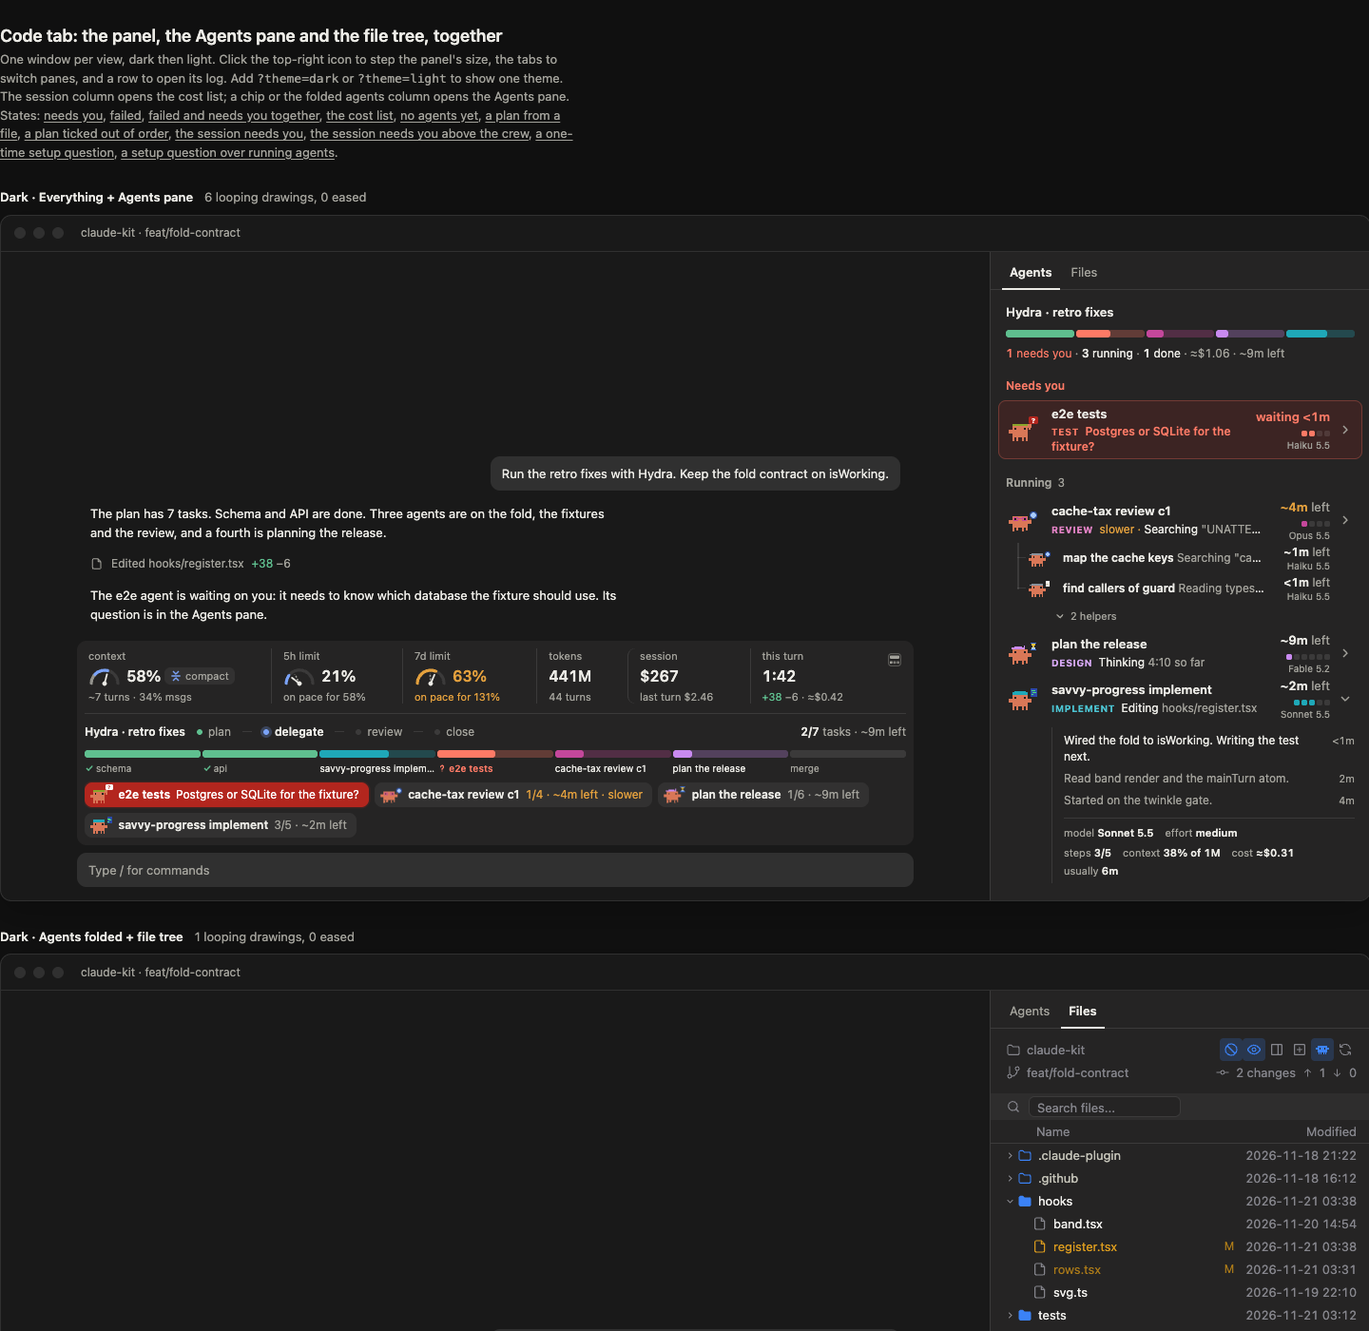
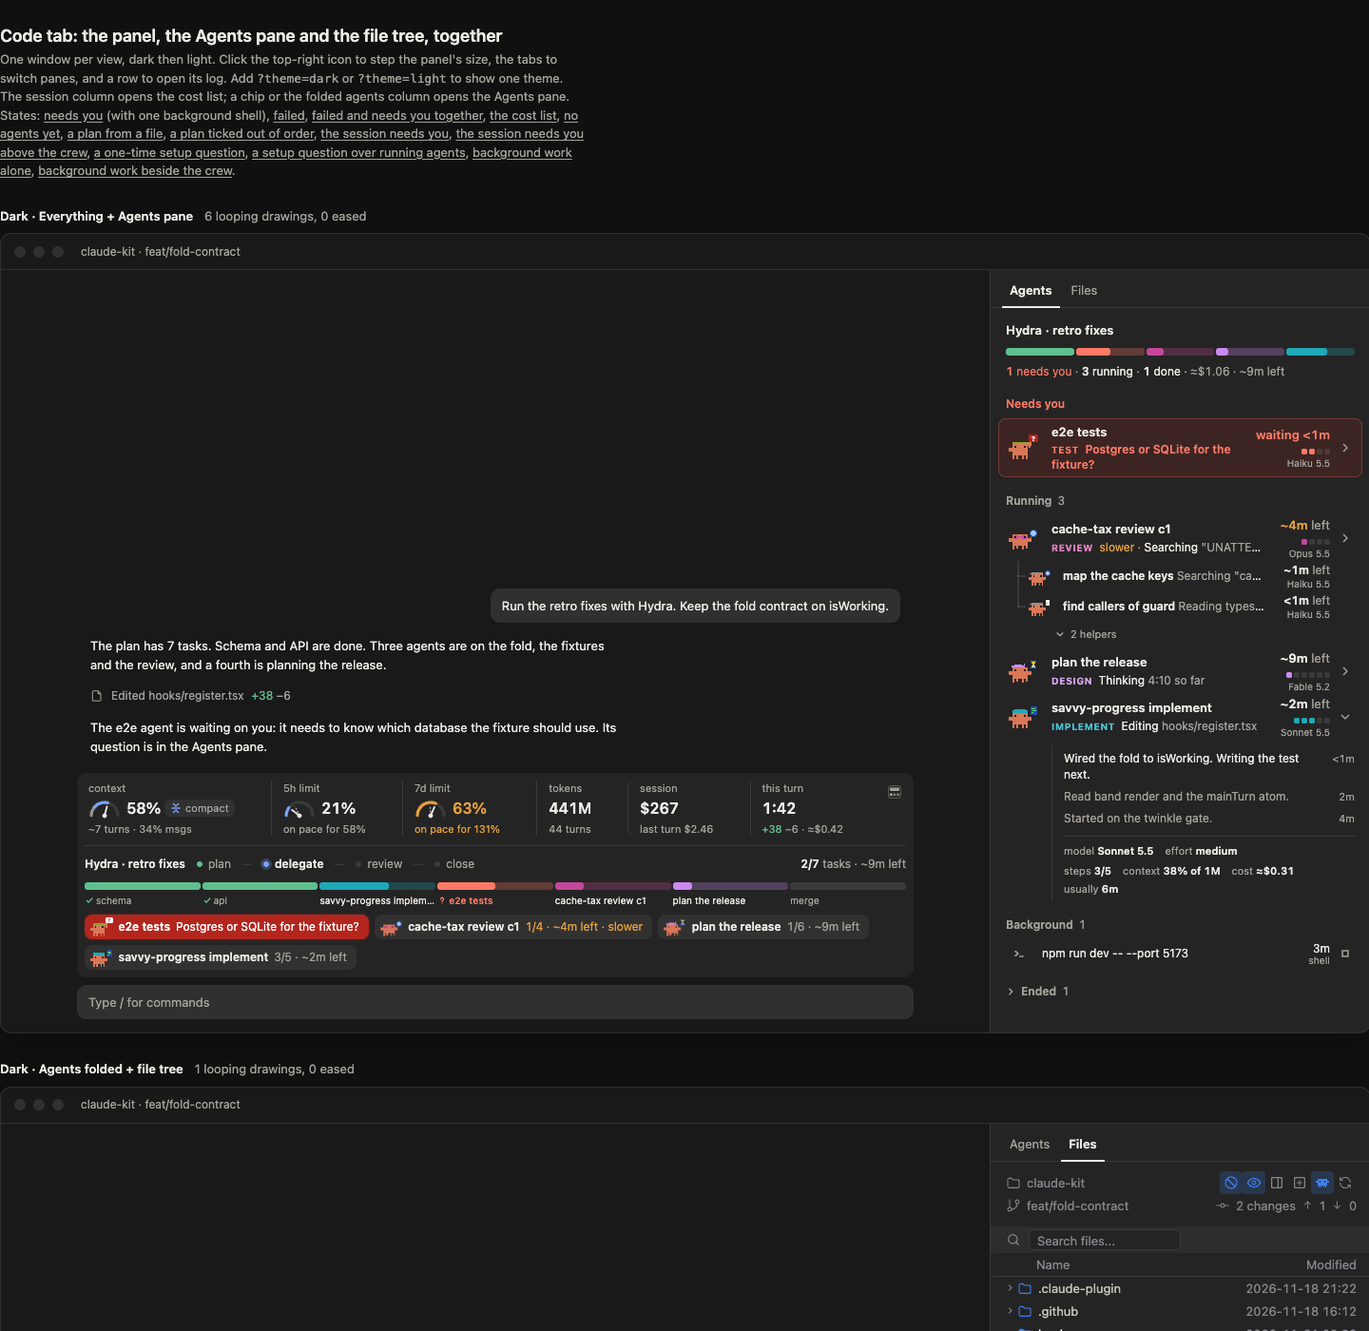
design: the mockup shows the Background section, with one running shell in the default state; previews refreshed

diff --git a/design/mockups-all.html b/design/mockups-all.html
@@ -163,6 +163,12 @@ body{margin:0;background:var(--page);color:var(--ink);font:14px/1.5 -apple-syste
 .kidtog[aria-expanded="true"] svg{transform:rotate(90deg)}
 .end{display:grid;grid-template-columns:28px minmax(0,1fr) auto;align-items:center;column-gap:10px;height:30px;font-size:12px;color:var(--mu)}
 .end .ok{color:var(--okt);display:inline-flex;align-items:center;gap:4px}
+/* BUILD Background section: the Ended rows' 30px height, the kind icon in the crab slot, the reading on the running rows' edge over the kind word; the Stop sits in the chevron slot */
+.bgr{display:grid;grid-template-columns:28px minmax(0,1fr) auto 16px;align-items:center;column-gap:10px;height:30px;font-size:12px}
+.bgr .ki{display:inline-flex;justify-content:center;color:var(--mu)}
+.bgr .rd{line-height:13px}
+.bgr.fail .ki,.bgr.fail .rd>.tn{color:var(--er)}.bgr.fail .rd>.tn{font-weight:600}.bgr.fail .el{color:var(--mu)}
+.stp{all:unset;display:inline-flex;color:var(--mu);cursor:pointer;border-radius:4px}.stp:hover{color:var(--fg)}
 
 /* ---------- ALIGN F3..F12: the failed state (ALIGNMENT.md, "Failed state"). Only existing tokens. ---------- */
 /* ALIGN F3: an ended segment is solid (done green, failed er); a live one keeps the 28% tint + fill */
@@ -223,7 +229,7 @@ body{margin:0;background:var(--page);color:var(--ink);font:14px/1.5 -apple-syste
 <body>
 <div class="doc">
 <h1>Code tab: the panel, the Agents pane and the file tree, together</h1>
-<p>One window per view, dark then light. Click the top-right icon to step the panel's size, the tabs to switch panes, and a row to open its log. Add <code>?theme=dark</code> or <code>?theme=light</code> to show one theme. The session column opens the cost list; a chip or the folded agents column opens the Agents pane. States: <a href="?">needs you</a>, <a href="?state=failed">failed</a>, <a href="?state=both">failed and needs you together</a>, <a href="?state=costs">the cost list</a>, <a href="?state=empty">no agents yet</a>, <a href="?state=fileplan">a plan from a file</a>, <a href="?state=outoforder">a plan ticked out of order</a>, <a href="?state=session">the session needs you</a>, <a href="?state=sessionCrew">the session needs you above the crew</a>, <a href="?state=offer">a one-time setup question</a>, <a href="?state=offerCrew">a setup question over running agents</a>.</p>
+<p>One window per view, dark then light. Click the top-right icon to step the panel's size, the tabs to switch panes, and a row to open its log. Add <code>?theme=dark</code> or <code>?theme=light</code> to show one theme. The session column opens the cost list; a chip or the folded agents column opens the Agents pane. States: <a href="?">needs you</a> (with one background shell), <a href="?state=failed">failed</a>, <a href="?state=both">failed and needs you together</a>, <a href="?state=costs">the cost list</a>, <a href="?state=empty">no agents yet</a>, <a href="?state=fileplan">a plan from a file</a>, <a href="?state=outoforder">a plan ticked out of order</a>, <a href="?state=session">the session needs you</a>, <a href="?state=sessionCrew">the session needs you above the crew</a>, <a href="?state=offer">a one-time setup question</a>, <a href="?state=offerCrew">a setup question over running agents</a>, <a href="?state=background">background work alone</a>, <a href="?state=backgroundCrew">background work beside the crew</a>.</p>
 </div>
 <div id="root"></div>
 <script>
@@ -242,7 +248,8 @@ const TH={
 const CL='#D97757',INK='#1F1E1D';
 /* ALIGN I1: one icon set, 12-unit grid, 1.6 stroke, drawn at 12px or 10px (was 1.6 / 1.7 / 2.0 at 12 / 11 / 10 / 8px) */
 const ic=(d,s,cls)=>`<svg ${cls?`class="${cls}"`:`width="${s}" height="${s}"`} viewBox="0 0 12 12" aria-hidden="true"><path d="${d}" fill="none" stroke="currentColor" stroke-width="1.6" stroke-linecap="round" stroke-linejoin="round"/></svg>`;
-const ICON={chev:ic('M4.5 2.5 8 6l-3.5 3.5',12,'chev'),small:ic('M4.5 2.5 8 6l-3.5 3.5',10),check:ic('M2.5 6.3 5 8.8l4.5-5.3',10),cross:ic('M3 3l6 6M9 3 3 9',10),ask:ic('M4.2 4.4a1.8 1.8 0 1 1 2.6 1.6c-.5.3-.8.7-.8 1.2v.5M6 9.6v.01',10),squeeze:ic('M3.5 1.5 6 4l2.5-2.5M3.5 10.5 6 8l2.5 2.5M2 6h8',12)}; /* ALIGN F3: cross, same grid and stroke as the check. BUILD Compact chip: squeeze */
+const ICON={chev:ic('M4.5 2.5 8 6l-3.5 3.5',12,'chev'),small:ic('M4.5 2.5 8 6l-3.5 3.5',10),check:ic('M2.5 6.3 5 8.8l4.5-5.3',10),cross:ic('M3 3l6 6M9 3 3 9',10),ask:ic('M4.2 4.4a1.8 1.8 0 1 1 2.6 1.6c-.5.3-.8.7-.8 1.2v.5M6 9.6v.01',10),squeeze:ic('M3.5 1.5 6 4l2.5-2.5M3.5 10.5 6 8l2.5 2.5M2 6h8',12),
+ shell:ic('M2 3.5 4.8 6 2 8.5M6.5 9h3.5',12),monitor:ic('M1 6h2.4l1.4-3 2.4 6 1.4-3H11',12),cron:ic('M6 1.5a4.5 4.5 0 1 0 0 9 4.5 4.5 0 1 0 0-9M6 3.8V6l1.6 1.1',12),wakeup:ic('M10 6a4 4 0 1 1-1.2-2.85M9.2 1.4v1.9H7.3',12),stop:ic('M3 3h6v6H3z',12),cross12:ic('M3 3l6 6M9 3 3 9',12)}; /* ALIGN F3: cross, same grid and stroke as the check. BUILD Compact chip: squeeze */
 
 /* ALIGN C2: ONE crab for chips, pane rows and the folded column. The pane's drawing (full props, done flag)
    plus the panel's failed eyes. Sizes are S .75 / M 1 / L 1.5 only (were .7 .75 .8 .9 1.1 1.6). */
@@ -286,6 +293,8 @@ if(FAILED){
 const EMPTY=STATE==='empty';if(EMPTY){A.length=0;ENDED.length=0}
 /* BUILD Session need (?state=session alone, ?state=sessionCrew above the crew): the main session waits on you. A "Claude" row in Needs you, not an agent: no crew-bar segment, no press, no chevron (its slot kept). */ const SESSION=STATE==='session'||STATE==='sessionCrew',SQ='Ship the schema change behind a flag, or migrate every row now?';if(STATE==='session'){A.length=0;ENDED.length=0}
 /* BUILD One-time setup (?state=offer alone, ?state=offerCrew over two running agents): an unasked /config choice row from clawpit or savvy-progress, one at a time, directly under the head; hidden while anything needs you or has failed; Yes and No are equal wash chips, no later. */ const OFFER=STATE==='offer'||STATE==='offerCrew',OQ='Light Needs you when this session asks you a question?';if(STATE==='offer'){A.length=0;ENDED.length=0}if(STATE==='offerCrew'){A.splice(0,A.length,...A.filter(a=>a.id==='imp'||a.id==='pln'));ENDED.length=0}
+/* BUILD Background section (decided 2026-11-23; ?state=background alone, ?state=backgroundCrew beside the crew; the default state shows one running shell): savvy's shells, monitors, crons and wakeups, after Running and before Ended. Done and stopped rows hide; a failed one shows until the next prompt, with a cross and "failed", and no Stop. A schedule wider than the reading column reads the kind word. Nothing moves. Alone, it reaches the pane through one muted chip at full size, and the folded agents column. */
+const BGS=STATE==='background'||STATE==='backgroundCrew',BG=BGS?[{k:'wakeup',t:'resume the release check',r:'in 5m',say:'next in 5m'},{k:'shell',t:'npm run dev -- --port 5173',r:'3m',say:'running 3m'},{k:'monitor',t:'watch the deploy logs',r:'12m',say:'running 12m'},{k:'cron',t:'check the CI queue',r:'cron',brief:1,say:'every 10 minutes'},{k:'shell',t:'npm run build:docs',r:'failed',fail:1,say:'failed after 2m'}]:STATE===''?[{k:'shell',t:'npm run dev -- --port 5173',r:'3m',say:'running 3m'}]:[];if(STATE==='background'){A.length=0;ENDED.length=0}
 const hard=a=>a.tries>=3&&a.prop!=='fail'; /* struggling: live, may recover */
 /* ALIGN M2: walkers are capped window-wide and are the same agents in chips and rows:
    2 while someone needs you (the needs-you beat takes the third slot), else 3. Helpers walk only if a slot is left.
@@ -294,7 +303,7 @@ const hard=a=>a.tries>=3&&a.prop!=='fail'; /* struggling: live, may recover */
 /* BUILD: the plan's task titles are the run descriptions they match, as savvy-progress's contract asks. DONE: BUILD Plan count, the session's accepted count */
 let TASKS=['schema','api','savvy-progress implement','e2e tests','cache-tax review c1','plan the release','merge'],PH=['plan','delegate','review','close'],DONE=2;
 /* BUILD Plan ticks by title (2026-11-22) */ const PLAN=STATE==='fileplan'?{title:'Site rebuild',tasks:['schema','api','docs page','auth flow','login page','settings page','search index','export csv','import csv','error pages','release notes','changelog'],done:5,titles:['schema','api','docs page','login page','settings page']}:STATE==='outoforder'?{title:'Site rebuild',tasks:['schema','api','docs page','release notes'],done:1,titles:['api']}:null; if(PLAN){TASKS=PLAN.tasks;DONE=PLAN.done;ENDED.length=0;if(STATE==='fileplan')A.length=0;else A.splice(0,A.length,{...AG('imp'),t:'schema',task:1,kids:[]})}
-const ST={busy:1,hydra:!EMPTY,ctx:58,msgs:34,h5:21,p5:36,d7:63,p7:48,turns:44,tests:1}; /* the panel's "Hydra, needs you" state; p5/p7: the on-pace points */
+const ST={busy:1,hydra:!EMPTY&&STATE!=='background',ctx:58,msgs:34,h5:21,p5:36,d7:63,p7:48,turns:44,tests:1}; /* the panel's "Hydra, needs you" state; p5/p7: the on-pace points */
 /* BUILD Session cost board: the last 20 of 44 turns, newest last (the costs fixture) */
 const TURNS=[...Array.from({length:17},(_,i)=>+(0.2+i*0.03).toFixed(2)),0.85,1.1,2.46];
 const NEXT={full:'gauges',gauges:'line',line:'full'},LBL={full:'Panel: everything. Fold the agents',gauges:'Panel: agents folded. Show one line',line:'Panel: one line. Show everything'};
@@ -335,6 +344,7 @@ function columns(c,s,L,mode){const C=[],alarm=s.ctx>=90,ctc=tier(c,s.ctx);
  if(mode!=='full'&&s.hydra)C.push({k:'plan',pr:97,lab:`plan · ${PH[1]}`,d:mini(c,L,58),val:`<b>${DONE}/${TASKS.length}</b>`,so:`${PLAN?PLAN.title:'Hydra · retro fixes'}${A.length?` · ${LEFT}`:''}`});
  /* ALIGN W3: "N running" counted the waiting agent as running; the pane does not. The folded column now reads "N agents". Crab .9 -> M.
     BUILD One folded agent: its name in the value slot and only its state under it. BUILD Alert line keeps its words: the name is cut, never " needs you". */
+ if(mode!=='full'&&!L.length&&!SESSION&&BG.length){const n=BG.filter(b=>!b.fail).length,f=BG.length-n;C.push({k:'agents',pr:99,act:'open',aria:'Agents: show them all',lab:'agents',d:`<span style="display:inline-block;margin-right:6px">${crab('explore','none',0,c,M)}</span>`,val:`<b>${n}</b>`,so:`background${f?`<span style="color:${c.er}"> · ${f} failed</span>`:''}`})}
  if(mode!=='full'&&(L.length||SESSION)){const F=face(L),one=!L.length||L.length===1&&F.a===L[0],st=F.alert?(F.a.prop==='wait'?'needs you':'failed'):F.warn?`${F.a.tries} failed tries`:`${etaTxt(F.a)} left`;
   const say=F.alert&&!one?`<span class="el" style="min-width:0">${F.a.t}</span><span style="flex:none;white-space:pre">${F.txt.slice(F.a.t.length)}</span>`:one?st:F.txt;
   C.push({k:'agents',pr:99,act:'open',aria:'Agents: show them all',lab:'agents',d:mascot(F,c,M,L.length,1,1),val:one?`<b class="el" style="font-size:14px">${F.a.t}</b>`:`<b>${L.length}</b><small>agents</small>`,so:`<span style="display:flex;${faceStyle(F,c)}">${say}</span>`})}
@@ -347,7 +357,8 @@ function panel(c,mode,W){const s=ST,L=A;
  const grid=`<div class="grid" style="grid-template-columns:repeat(${keep.length},auto)">${keep.map(x=>`<div class="cell${x.act?' press':''}"${x.act?` role="button" tabindex="0" aria-label="${x.aria}" data-act="${x.act}"`:''}><div class="lab">${x.lab}</div><div class="val">${x.d||''}${x.val}</div><div class="so el">${x.so}</div></div>`).join('')}</div>`;
  const bad=L.filter(a=>a.task&&a.prop==='fail').length,live=L.filter(a=>a.task).length-bad;
  const plan=s.hydra?`<div class="hr"></div><div class="plan${W<620?' narrow':''}"><b class="el" style="min-width:0">${W<520?'Hydra':PLAN?PLAN.title:'Hydra · retro fixes'}</b>${PH.map((p,i)=>`${i?'<span class="sep"></span>':''}<span class="ph ${i<1?'done':i===1?'now':'next'}" title="${p}"><i></i><span>${p}</span></span>`).join('')}<span class="grow"></span><span class="tn"><b>${DONE}/${TASKS.length}</b><span class="m"> tasks${A.length?` · ${LEFT}`:''}</span>${!L.some(a=>a.task)&&TASKS.length>8?`<span class="m"> · next: ${TASKS[tick(L).indexOf(0)]}</span>`:''}</span></div><div class="tbar" role="img" aria-label="tasks: ${DONE} done, ${bad?`${bad} failed, `:''}${live} in progress, ${TASKS.length-DONE-live-bad} not started">${TASKS.map((_,i)=>seg(taskState(i,L),c)).join('')}</div>${TASKS.length>8?'':`<div class="tnames">${TASKS.map((n,i)=>{const t=taskState(i,L);return `<span class="${t.k}">${t.k==='d'?`<span class="ck">${ICON.check}</span>`:t.k==='x'?`<span class="ck">${ICON.cross}</span>`:t.k==='n'?`<span class="ck">${ICON.ask}</span>`:''}${n}${t.k==='x'?' failed':''}</span>`}).join('')}</div>`}`:'';
- const chips=!L.length&&!SESSION?'':`${s.hydra?'<div style="height:8px"></div>':'<div class="hr"></div>'}<div class="chips">${SESSION?`<span class="chip alert pulse" role="button" tabindex="0" aria-label="Claude needs you: ${SQ}" data-act="open">${crab('explore','wait',0,c,S,1)}<b class="el" style="max-width:180px">Claude</b><span class="el">${SQ}</span></span>`:''}${[...L].sort((x,y)=>rank(x)-rank(y)).map(a=>chip(a,c,1)).join('')}</div>`;
+ const bgOn=BG.filter(b=>!b.fail).length,bgOff=BG.length-bgOn,bgChip=`<div class="hr"></div><div class="chips"><span class="chip" role="button" tabindex="0" aria-label="${bgOn} background tasks${bgOff?`, ${bgOff} failed`:''}" data-act="open" style="padding-left:10px;color:${c.mu}">${bgOn} background${bgOff?`<span style="color:${c.er}"> · ${bgOff} failed</span>`:''}</span></div>`;
+ const chips=!L.length&&!SESSION?(BG.length?bgChip:''):`${s.hydra?'<div style="height:8px"></div>':'<div class="hr"></div>'}<div class="chips">${SESSION?`<span class="chip alert pulse" role="button" tabindex="0" aria-label="Claude needs you: ${SQ}" data-act="open">${crab('explore','wait',0,c,S,1)}<b class="el" style="max-width:180px">Claude</b><span class="el">${SQ}</span></span>`:''}${[...L].sort((x,y)=>rank(x)-rank(y)).map(a=>chip(a,c,1)).join('')}</div>`;
  const F=(L.length||SESSION)&&face(L),hot=all.filter(x=>(x.k==='5h'||x.k==='7d')&&x.hot);
  const line=`<div class="line"><span class="g">${dial(c,s.ctx,tier(c,s.ctx),{base:s.ctx-s.msgs,small:1,label:'context'})}<b class="tn">${s.ctx}%</b><span class="m">context</span></span>${hot.map(x=>`<span class="g">${dial(c,x.pct,x.col,{ghost:x.gh,small:1,label:x.k})}<b class="tn" style="${x.col===c.wa?`color:${c.wa}`:''}">${x.pct}%</b><span class="m">${x.k}</span></span>`).join('')}${s.hydra?`<span class="g">${mini(c,L,48)}<b class="tn">${DONE}/${TASKS.length}</b><span class="m">${PH[1]}</span></span>`:`<span class="g press" role="button" tabindex="0" aria-label="Session cost: open the cost list" data-act="costs"><b class="tn">$267</b><span class="m">session</span></span>`}<span class="grow"></span>${L.length?`<span class="g press" role="button" tabindex="0" aria-label="Agents: show them all" data-act="open">${mascot(F,c,S,L.length,1,1)}<span class="tn" style="${faceStyle(F,c)}">${F.txt}</span></span>`:''}</div>`;
  const dot=mode!=='full'&&(L.some(alertOf)||SESSION);
@@ -375,19 +386,20 @@ const costs=()=>{const n=TURNS.length,list=TURNS.map((v,i)=>[ST.turns-(n-1-i),v]
  return `<div class="pane costs"><button class="back" data-act="crew" aria-label="Back to the agents">${ICON.small}Agents</button><div class="t">Session cost</div><div class="tot tn"><b>$267</b><span class="m"> · ${ST.turns} turns</span></div><div class="sec">Last ${n} turns</div><div class="cl tn">${list.map(([t,v])=>`<span>turn ${t}</span><span>$${v.toFixed(2)}</span>`).join('')}</div></div>`};
 function pane(c,w){if(w.view==='costs')return costs();
  const ofr=OFFER?`<div class="ofr"><div class="ofq" role="img" aria-label="One-time setup: ${OQ}"><span class="m">One-time setup</span><span>${OQ}</span></div><div class="ofb"><button aria-label="Yes: Session needs you set to both. This opts into about 40 schema tokens; the progress field takes effect from the next session.">Yes</button><button aria-label="No: Session needs you set to off">No</button></div></div>`:'';
- if(!A.length&&!SESSION)return `<div class="pane">${ofr}<div class="empty">${crab('explore','none',0,c,L)}<span style="margin-top:12px">No agents yet</span><span class="m">Agents you start show up here</span></div></div>`;
+ if(!A.length&&!SESSION&&!BG.length)return `<div class="pane">${ofr}<div class="empty">${crab('explore','none',0,c,L)}<span style="margin-top:12px">No agents yet</span><span class="m">Agents you start show up here</span></div></div>`;
  const need=A.filter(a=>a.prop==='wait'),bad=A.filter(a=>a.prop==='fail'),run=A.filter(a=>!alertOf(a)).sort((x,y)=>hard(y)-hard(x)),order=[...need,...bad,...run];
  const crew=[...ENDED.map(()=>'<span class="d"></span>'),...order.map(a=>seg({a},c))].join('');
- const sum=`${need.length||SESSION?`<span style="color:${c.er}"><b class="tn">${need.length+(SESSION?1:0)}</b> needs you</span><span class="m"> · </span>`:''}${bad.length?`<span style="color:${c.er}"><b class="tn">${bad.length}</b> failed</span><span class="m"> · </span>`:''}<b class="tn">${run.length}</b> running<span class="m"> · </span><b class="tn">${ENDED.length}</b> done<span class="m"> · ≈$${COST.toFixed(2)} · ${LEFT}</span>`;
+ const sum=`${need.length||SESSION?`<span style="color:${c.er}"><b class="tn">${need.length+(SESSION?1:0)}</b> needs you</span><span class="m"> · </span>`:''}${bad.length?`<span style="color:${c.er}"><b class="tn">${bad.length}</b> failed</span><span class="m"> · </span>`:''}<b class="tn">${run.length}</b> running<span class="m"> · </span><b class="tn">${ENDED.length}</b> done<span class="m"> · ≈$${COST.toFixed(2)}${A.length||!BG.length?` · ${LEFT}`:''}</span>`;
  const sess=SESSION?`<div style="position:relative"><span class="ring"></span><div class="row need"><div>${crab('explore','wait',0,c,M)}</div><div style="min-width:0"><div class="b el">Claude</div><div class="sub ask"><span style="color:${c.er};font-weight:600">${SQ}</span></div></div><div class="rd"><div class="eta" style="color:${c.er}">waiting <span class="tn">12m</span></div></div><span></span></div></div>`:''
  const kids=a=>a.kids?`<div class="kids${w.shut[a.id]?' shut':''}"${w.shut[a.id]?' inert':''}><div><div class="tree">${a.kids.map(k=>row(k,c,w,1)).join('')}</div></div></div><button class="kidtog" data-act="tog" data-id="${a.id}" aria-expanded="${!w.shut[a.id]}">${ICON.small}${a.kids.length} helpers${a.kids.some(k=>k.prop==='fail')?`<span style="color:${c.er}"> · ${a.kids.filter(k=>k.prop==='fail').length} failed</span>`:''}</button>`:'';
  const block=a=>`<div>${row(a,c,w)}${drawer(a,w)}${kids(a)}</div>`;
- return `<div class="pane" style="--rd:${readEdge(run)}px"><div class="hd"><span class="t">Hydra · retro fixes</span></div>
+ return `<div class="pane" style="--rd:${readEdge(run)}px"><div class="hd"><span class="t">${STATE==='background'?'Subagents':'Hydra · retro fixes'}</span></div>
  <div class="crew" role="img" aria-label="${ENDED.length} done, ${need.length} needs you, ${bad.length} failed, ${run.length} running">${crew}</div><div class="sum tn">${sum}</div>${OFFER&&!need.length&&!bad.length&&!SESSION?ofr:''}
  ${need.length||SESSION?`<div class="sec need">Needs you</div>${sess}${need.map(block).join('')}`:''}
  ${bad.length?`<div class="sec need">Failed <span class="tn" style="font-weight:400">${bad.length}</span></div>${bad.map(block).join('')}`:''}
- <div class="sec">Running <span class="tn" style="font-weight:400">${run.length}</span></div>${run.map(block).join('')}
- <div class="sec"><button data-act="tog" data-id="ended" aria-expanded="${!w.shut.ended}"><span style="display:inline-flex;transition:transform .3s cubic-bezier(.2,.8,.2,1);${w.shut.ended?'':'transform:rotate(90deg)'}">${ICON.small}</span>Ended <span class="tn" style="font-weight:400">${ENDED.length}</span></button></div><div class="kids${w.shut.ended?' shut':''}"${w.shut.ended?' inert':''}><div>${ENDED.map(e=>ended(e,c)).join('')}</div></div></div>`}
+ ${run.length||!BG.length?`<div class="sec">Running <span class="tn" style="font-weight:400">${run.length}</span></div>${run.map(block).join('')}`:''}
+ ${BG.length?`<div class="sec">Background <span class="tn" style="font-weight:400">${BG.length}</span></div>${BG.map(b=>`<div class="bgr${b.fail?' fail':''}" role="img" aria-label="${b.t}, ${b.k}, ${b.say}"><span class="ki">${b.fail?ICON.cross12:ICON[b.k]}</span><span class="el">${b.t}</span><span class="rd"><span class="tn">${b.r}</span>${b.brief?'':`<span class="mdl">${b.k}</span>`}</span>${b.fail?'<span></span>':`<button class="stp" aria-label="Stop ${b.t}">${ICON.stop}</button>`}</div>`).join('')}`:''}
+ ${ENDED.length||!BGS?`<div class="sec"><button data-act="tog" data-id="ended" aria-expanded="${!w.shut.ended}"><span style="display:inline-flex;transition:transform .3s cubic-bezier(.2,.8,.2,1);${w.shut.ended?'':'transform:rotate(90deg)'}">${ICON.small}</span>Ended <span class="tn" style="font-weight:400">${ENDED.length}</span></button></div><div class="kids${w.shut.ended?' shut':''}"${w.shut.ended?' inert':''}><div>${ENDED.map(e=>ended(e,c)).join('')}</div></div>`:''}</div>`}
 
 /* ---------- file tree: upstream's look, upstream's colours. Not ours to restyle; drawn so the neighbour is visible. ---------- */
 const FI={folder:'M3 7a2 2 0 0 1 2-2h4l2 2.5h8a2 2 0 0 1 2 2V18a2 2 0 0 1-2 2H5a2 2 0 0 1-2-2z',file:'M6 3h8l5 5v11a2 2 0 0 1-2 2H6a2 2 0 0 1-2-2V5a2 2 0 0 1 2-2zM14 3v5h5',right:'M9 5l7 7-7 7',down:'M5 9l7 7 7-7',search:'M11 18a7 7 0 1 0 0-14 7 7 0 0 0 0 14zM20 20l-4-4',branch:'M6 3v12M18 9a3 3 0 1 0 0-6 3 3 0 0 0 0 6zM6 21a3 3 0 1 0 0-6 3 3 0 0 0 0 6zM18 9a9 9 0 0 1-9 9',commit:'M12 15a3 3 0 1 0 0-6 3 3 0 0 0 0 6zM3 12h6M15 12h6',up:'M12 19V5M6 11l6-6 6 6',dn:'M12 5v14M6 13l6 6 6-6',eye:'M2 12s3.6-7 10-7 10 7 10 7-3.6 7-10 7S2 12 2 12zM12 15a3 3 0 1 0 0-6 3 3 0 0 0 0 6z',ban:'M12 21a9 9 0 1 0 0-18 9 9 0 0 0 0 18zM5.6 5.6l12.8 12.8',split:'M4 4h16v16H4zM14 4v16',plus:'M4 4h16v16H4zM12 8v8M8 12h8',sync:'M20 11a8 8 0 0 0-14.5-4M4 4v4h4M4 13a8 8 0 0 0 14.5 4M20 20v-4h-4'};
@@ -420,7 +432,7 @@ function spec(c){const f=A.find(a=>a.prop==='fail'),h=A.find(hard),F={a:f,txt:`$
  +fig('<b>3 failed tries, still running.</b> Amber words on a normal chip. It keeps its tool and may recover. No red, no pulse.',`<div class="demo">${chip({...h,walk:0},c,0)}</div><div class="demo">${mascot({...H,a:{...h,walk:0}},c,M,n,0)}<span style="${faceStyle(H,c)}">${H.txt}</span></div>`)
  +fig('<b>Decided 2026-11-21: the pane row stays still.</b> The chip and the folded crab carry the beat; in the pane, a pulsing ring keeps one meaning: answer me.',one(0))}
 function draw(w){const c=TH[w.th],el=w.el;
- el.style.cssText=vars(c,w.th)+(FAILED?';height:840px':''); /* ALIGN F12: taller window in the failed state so the open failed log and Running both show; the real pane scrolls */
+ el.style.cssText=vars(c,w.th)+(FAILED||STATE===''?';height:840px':STATE==='backgroundCrew'?';height:940px':''); /* ALIGN F12: taller window in the failed state so the open failed log and Running both show; the real pane scrolls. BUILD Background section: taller in the default state and beside the crew, so the section shows */
  el.innerHTML=`<div class="tbar-os"><i></i><i></i><i></i><span>claude-kit · feat/fold-contract</span></div><div class="body">
  <div class="chat"><div class="talk">
   <p class="me">Run the retro fixes with Hydra. Keep the fold contract on isWorking.</p>
